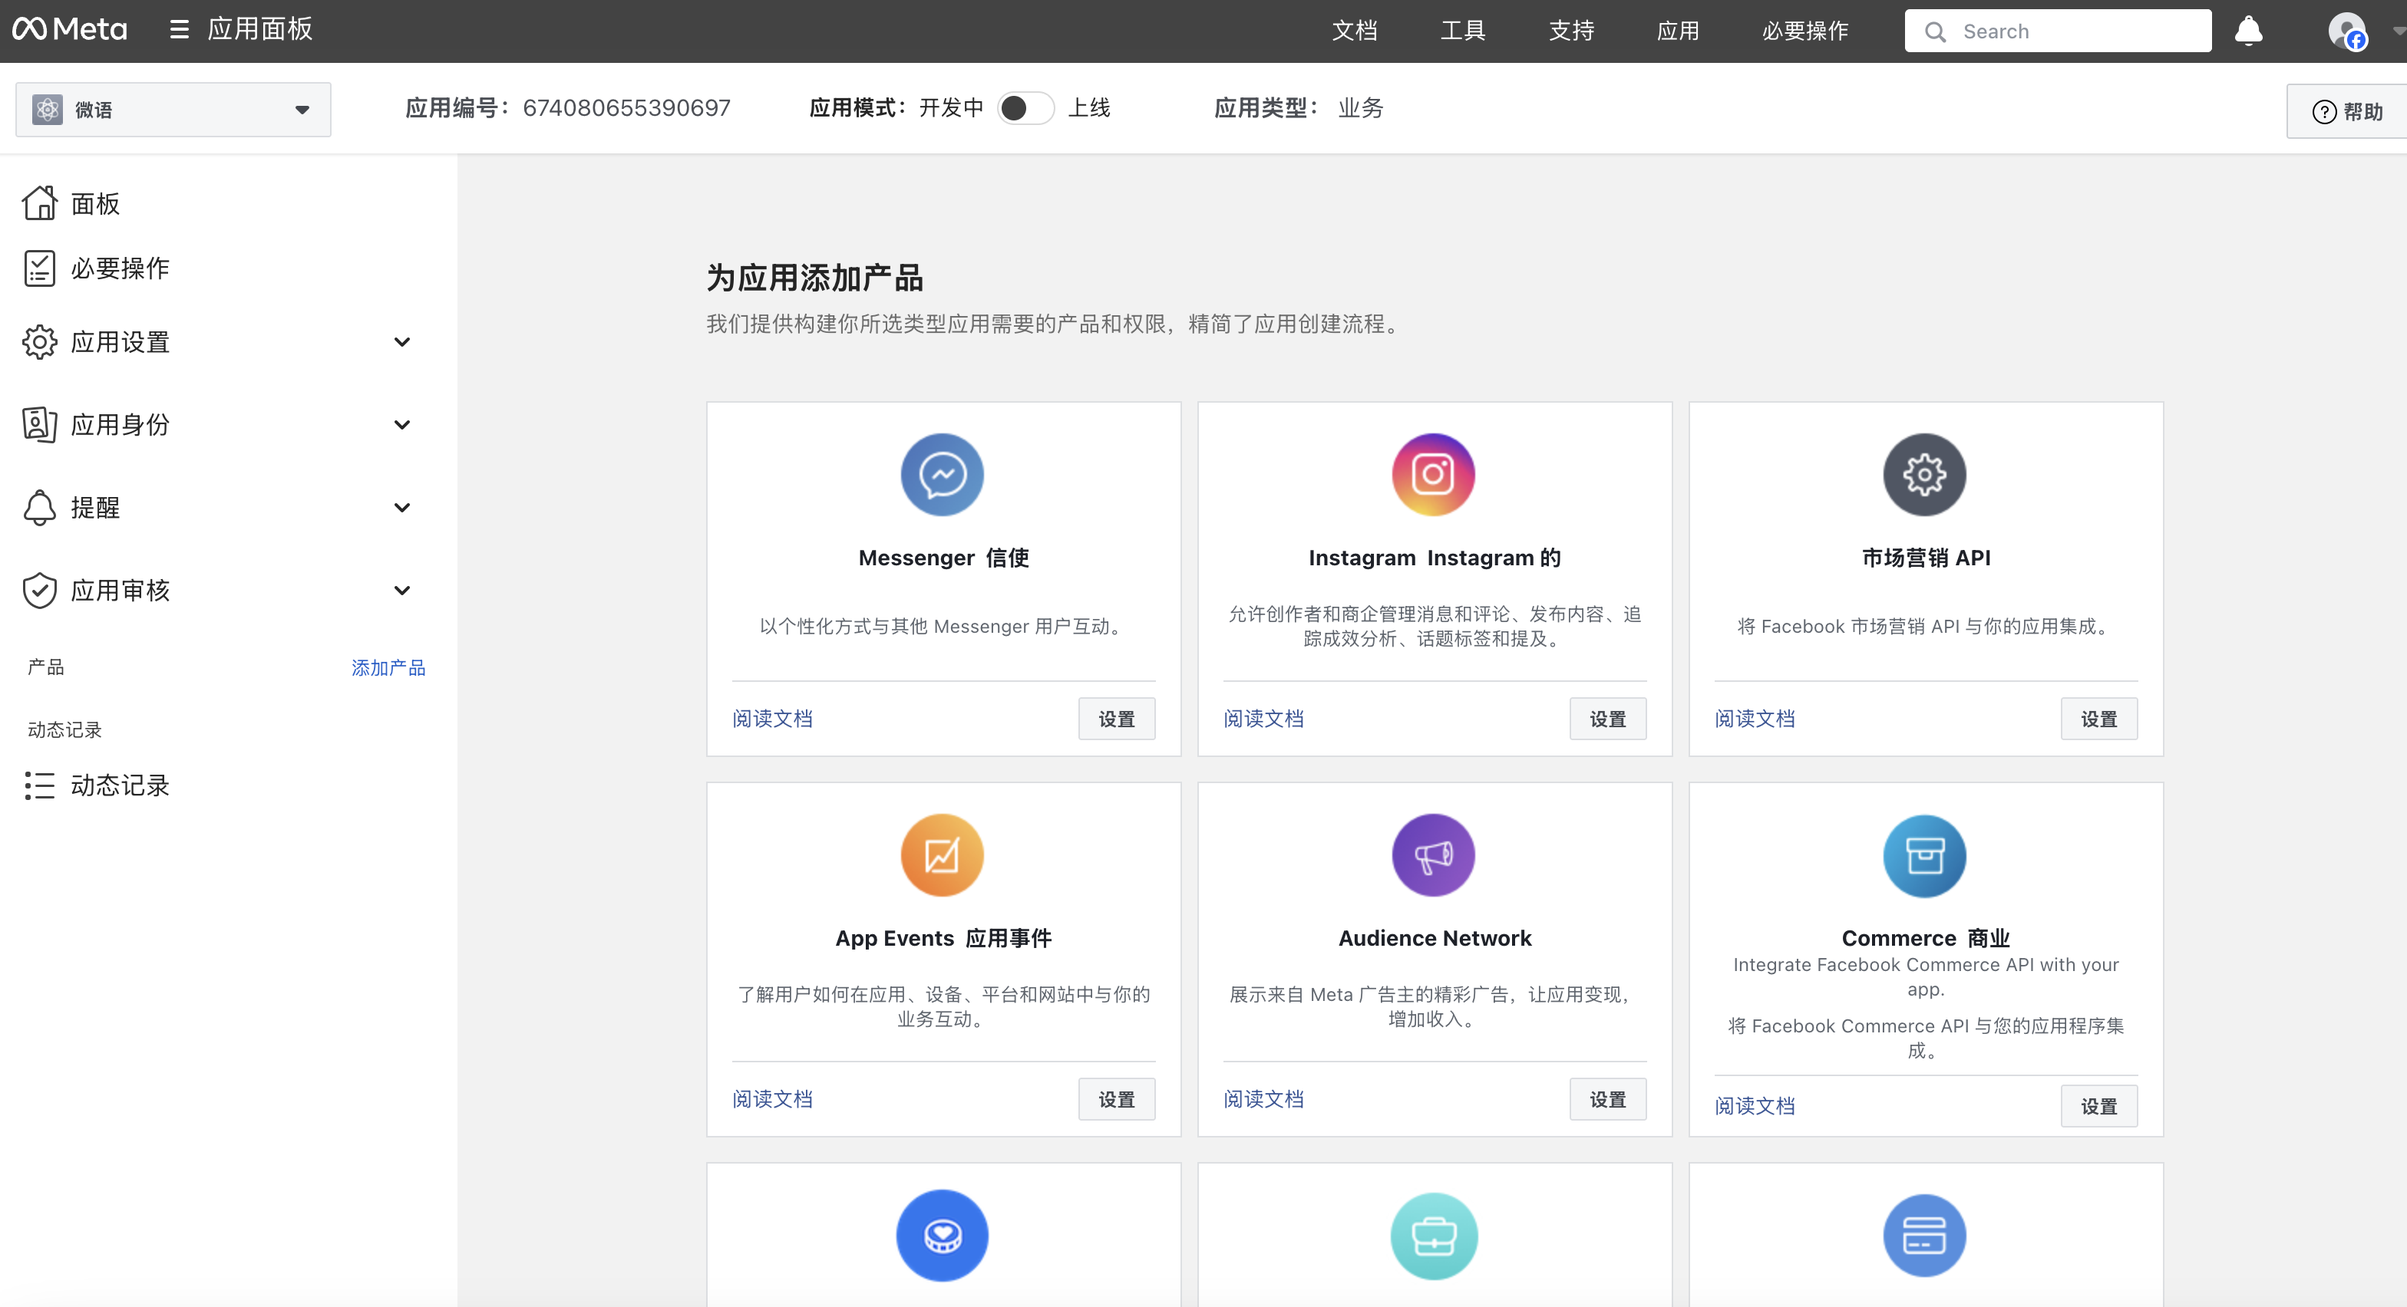
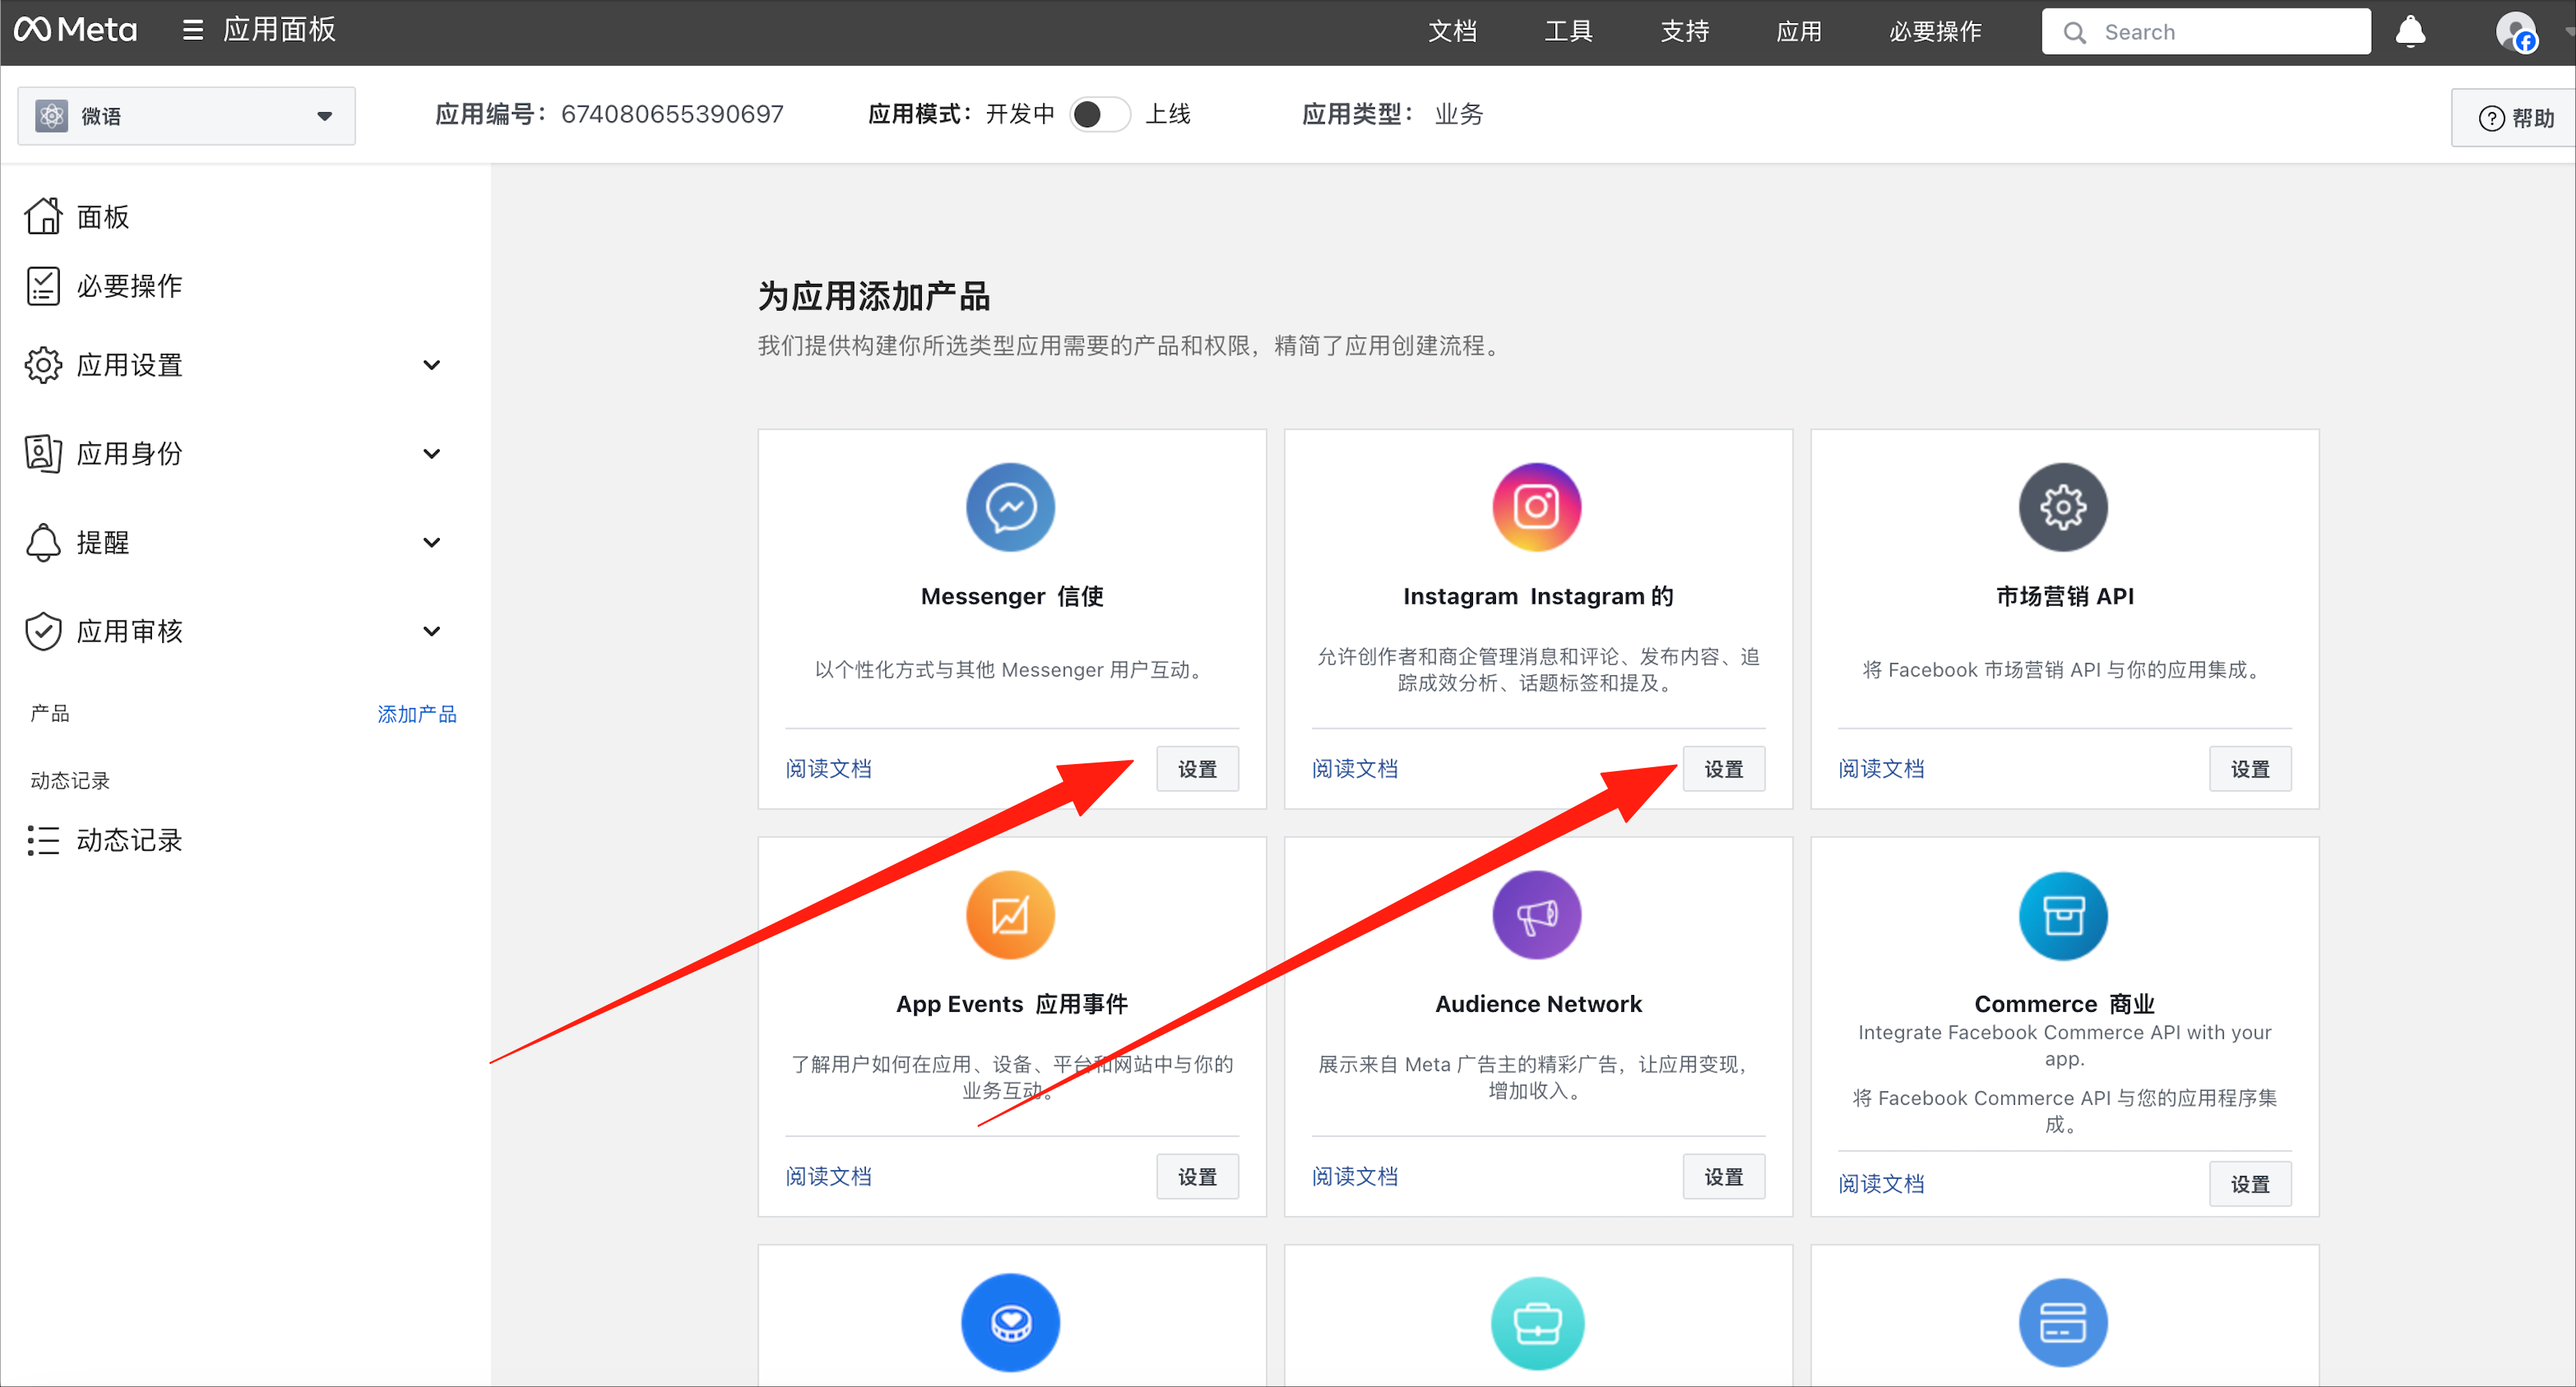
update

diff --git a/i18n/zh-CN/docusaurus-plugin-content-docs/current/channel/telegram.md b/i18n/zh-CN/docusaurus-plugin-content-docs/current/channel/telegram.md
@@ -72,7 +72,7 @@ import WeiyuaiBotProfile from '/img/channel/telegram/6_weiyuai_bot_profile.jpg';
 
 <img src={WeiyuaiBotProfile} alt="机器人资料" style={{width: 360}} />
 
-### 6. 添加机器人
+### 6. 添加机器人到频道Channel
 
 你可以通过不同方式添加机器人。
 
@@ -114,28 +114,8 @@ import FinalWeiyuaiBotProfile from '/img/channel/telegram/13_weiyuai_bot_profile
    - Bot名称：填写你创建的机器人名称(例如：weiyuai)
    - Bot用户名：填写你创建的机器人用户名(例如：weiyuai_bot)
    - Bot Token：填写BotFather提供的Token
-
-也可以通过修改[配置文件](/docs/deploy/config#telegram配置)启用Telegram功能：
-
-```properties
-# ===============================
-# = Telegram 配置
-# 需要能够连上：https://api.telegram.org
-# ===============================
-bytedesk.telegram.enabled=true
-bytedesk.telegram.default-bot-enabled=true
-bytedesk.telegram.default-bot-token=YOUR_BOT_TOKEN
-```
-
-如果使用Docker部署，可以在`docker-compose.yml`文件中添加环境变量：
-
-```yaml
-environment:
-  # 其他环境变量...
-  BYTEDESK_TELEGRAM_ENABLED: "true"
-  BYTEDESK_TELEGRAM_DEFAULT_BOT_ENABLED: "true"
-  BYTEDESK_TELEGRAM_DEFAULT_BOT_TOKEN: "YOUR_BOT_TOKEN"
-```
+  
+![weiyu_telegram_create](/img/channel/telegram/14_weiyu_telegram_create.png)
 
 配置完成后，客户可以通过Telegram与您的企业进行实时对话。
 

diff --git a/i18n/zh-CN/docusaurus-plugin-content-docs/current/channel/facebook.md b/i18n/zh-CN/docusaurus-plugin-content-docs/current/channel/facebook.md
@@ -79,6 +79,8 @@ import metaPageId from '/img/channel/meta/meta_app_get_page_id.png';
 
 ### [Facebook 应用后台](https://developers.facebook.com/apps/)
 
+点击创建 Messenger 应用
+
 <ZoomableImage src={metaCreateApp5} alt="创建应用步骤5" />
 
 ## 微语后台绑定
@@ -105,6 +107,10 @@ import metaPageId from '/img/channel/meta/meta_app_get_page_id.png';
 
 ![添加订阅](/img/channel/meta/meta_messenger_add_subscribe.png)
 
+### 订阅结果
+
+![订阅结果](/img/channel/meta/meta_messenger_subscribe_list.png)
+
 ### 获取 App ID 和 App Secret
 
 - [Facebook 应用](https://developers.facebook.com/apps/)，选择对应的应用-》应用设置-》基本
@@ -130,9 +136,7 @@ import metaPageId from '/img/channel/meta/meta_app_get_page_id.png';
 ![填写](/img/channel/meta/meta_weiyu_messenger_page_access_token.png)
 
 <!-- ### 绑定 Facebook Webhook URL回调地址 和 验证口令
-
 注意是：Webhook URL回调地址 和 验证口令，不是Messenger Webhook URL回调地址 和 验证口令。
-
 <ZoomableImage src={metaWebhookBind} alt="绑定Facebook Webhook" /> -->
 
 ### 开始对话
